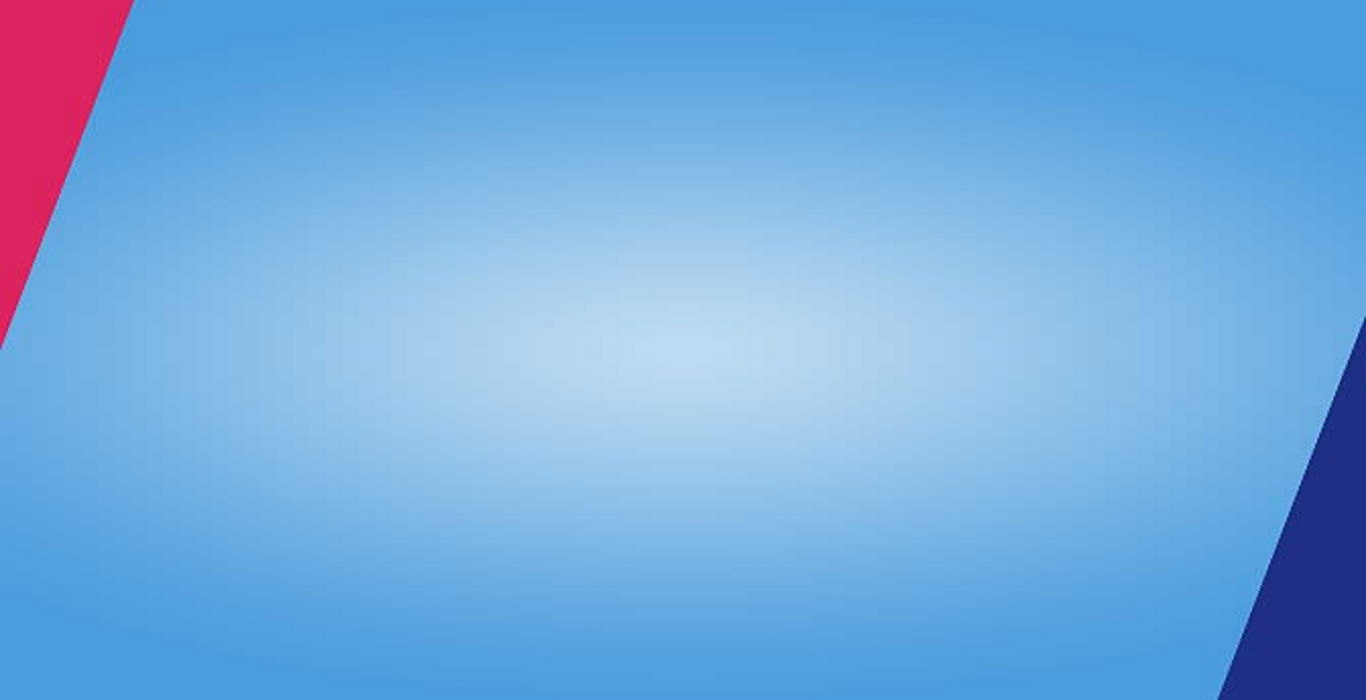
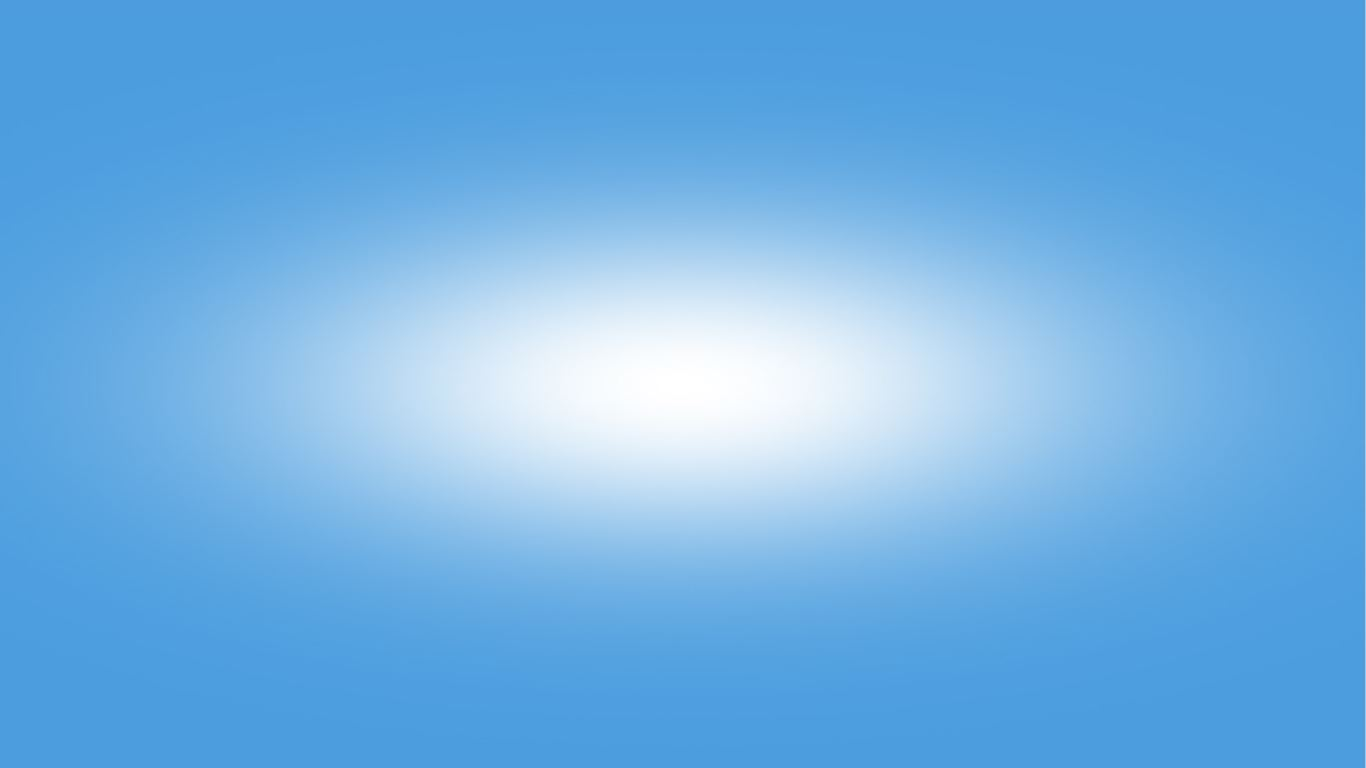
Commit changes on background image

Changed region(s): [[0.2767, 0.33, 0.7379, 0.66], [0.8917, 0.45, 1.0, 1.0], [0.0, 0.0, 0.123, 0.51]]

diff --git a/WebContent/css/user.css b/WebContent/css/user.css
@@ -218,6 +218,30 @@ body.nav-md .container.body .right_col {
     margin-left: 230px;
 }
 
+#pink_corner {
+ top: 0;
+    left: -745px;
+    width: 777px;
+    height: 667px;
+    background-color: #de2461;
+    position: absolute;
+    -ms-transform: skewX(-8deg);
+    -webkit-transform: skewX(-8deg);
+    transform: skewX(-8deg);
+    
+}
+#blue_corner {
+ top: 0;
+    left: 97%;
+    width: 777px;
+    height: 667px;
+    background-color: #1f3087;
+    position: absolute;
+    -ms-transform: skewX(-8deg);
+    -webkit-transform: skewX(-8deg);
+    transform: skewX(-8deg);
+}
+
 .nav_title {
     width: 230px;
     float: left;
